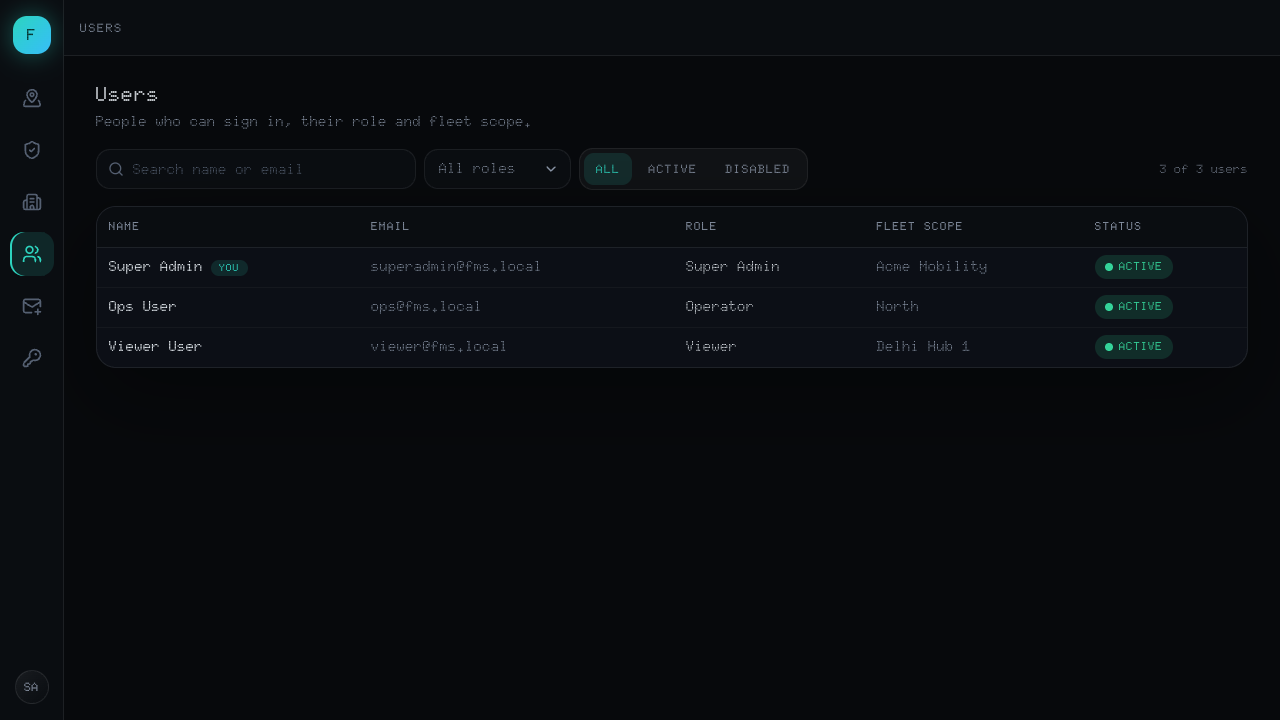
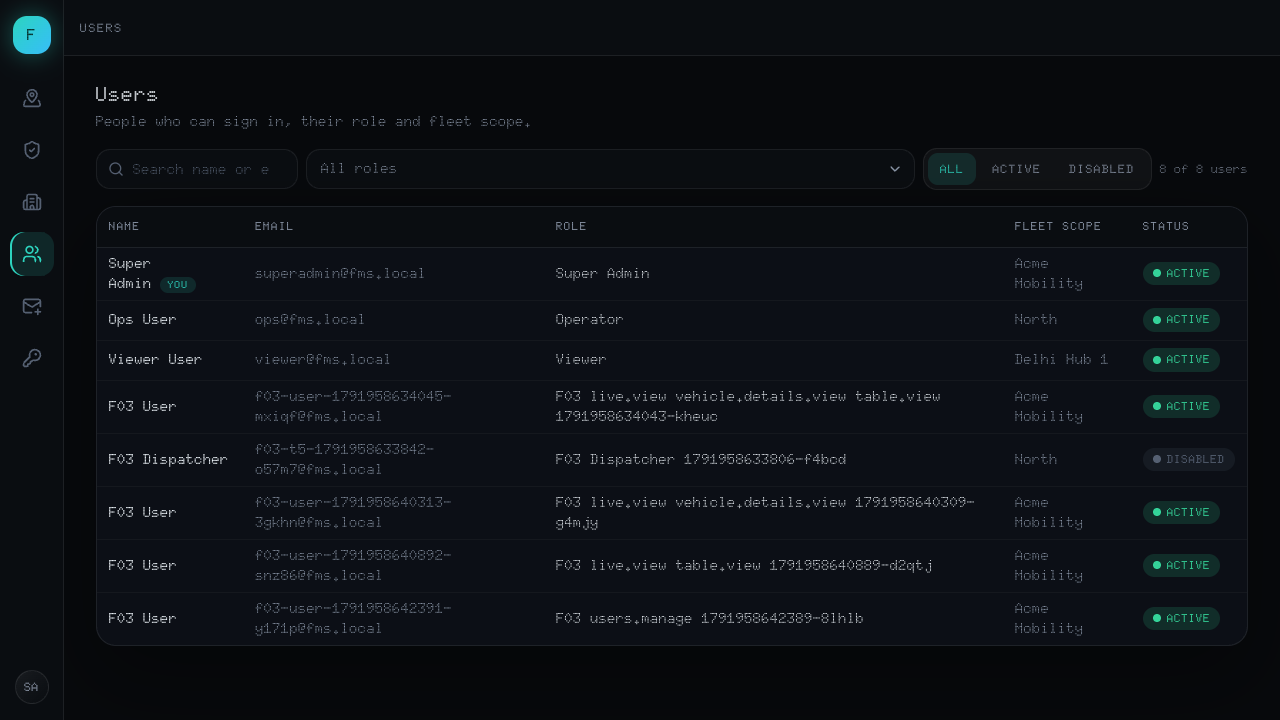
docs(f03): integration test report; F03 ready for UAT

diff --git a/docs/features/f03-access-control/test-report.md b/docs/features/f03-access-control/test-report.md
@@ -1,0 +1,29 @@
+# F03 — Access Control · Test report
+
+F03 was delivered by two agents in parallel from one shared contract commit (spec §5). Per-agent evidence:
+- `test-report-f03a.md`: Fleets (T2, T3, fleets screenshots, fleets budgets).
+- `test-report-f03b.md`: People (T4–T8, people screenshots).
+- Contract (T1): 30 tests in `permissions/can.test.tsx`, `app/nav-items.test.ts` and `app/app.test.tsx`. See `conversation-log.md`.
+
+## Integration (`integration/f03`, 2026-10-14)
+Merged `feature/f03a-fleets`, then `feature/f03b-people`. Only the decision log and the conversation log conflicted (both sides appended).
+
+**One integration fix:** the F03-T4 users-panel scope test clicked Delhi to deselect it. With F03a's real picker, Delhi is implied by the chosen North (F03-R7), so its checkbox is disabled. The test now deselects North and expects `['f3', 'f4']`. The F03b e2e invite steps needed no change, because multi-mode rows keep native checkboxes named by the fleet.
+
+| Command | Result |
+|---|---|
+| `pnpm check` | **619/619**, 52 files, lint clean |
+| `pnpm build` | pass; main chunk 658 kB (admin pages are lazy chunks) |
+| e2e setup + chromium (`--no-deps`) | **48/48** |
+| e2e clock (`--no-deps`) | **3/3** |
+| perf (6 specs, run alone) | See below. Results depended on machine load: load avg 5–15, with the editor using about one core. |
+
+**Perf:**
+| Spec | Result |
+|---|---|
+| F04-T9 / F04-T10 / F06-T9 | Failed on the first run at load 14.6 (F04 first data 3.8 s; F06 a 262 ms task). Passed on the second at load ~9: first data 1135 ms, snapshot 1488 ms; 0 long tasks while streaming; F06 0 long tasks. |
+| F09-T7 | Passed both runs: no scroll long tasks; export 692–705 ms. |
+| F03 fleets budgets | 3 of 4 runs had no long tasks; one run had a single 64 ms task (load ~9). Vehicle pages loaded in 5–19 ms, but the root fleet's empty direct page took 323 ms once (the mock scans all 1 lakh vehicles; budget 300 ms). |
+| F08 budgets | Frames after a filter change: 81–167 ms, with one 203 ms "clear" at load ~9. **Long tasks while typing/filtering: 58–84 ms**, failing. **`main` without F03 fails the same check at the same load (62 ms)**, so this is load sensitivity, not an F03 regression. Same pattern as F09 before D-079. |
+
+UAT screenshots: `screenshots/`. People screens were retaken on `integration/f03`, so the invite dialog and user panel show the real fleet picker. The fleets screens are from F03a's fresh-mock run.

diff --git a/docs/conversation-logs/project-conversation-log.md b/docs/conversation-logs/project-conversation-log.md
@@ -229,3 +229,9 @@ F02 only touched `tableViewStore.reset()`.
 **Assistant:** Accepted D-079 and merged `fix/f09-table-scroll` into `main` (--no-ff). Removed the worktree and branch. Post-merge `pnpm check` 521/521. The F03 contract agent is still running.
 
 **Assistant:** F03 contract finished (`pnpm check` 562/562, e2e 36/36) and merged into `main`. The contract puts guards in `staticData.permission` + AppLayout, and `/` now lands on the first page the user can open. Created worktrees `../fms-ui-f03a` (`feature/f03a-fleets`, ports 5273/4100, D-080…D-082) and `../fms-ui-f03b` (`feature/f03b-people`, ports 5373/4200, D-083…D-085) and spawned both agents in parallel. Left for F03b: gate `table.view`, and don't start the live worker without `live.view`.
+
+## 2026-10-14 — Session 4 (cont.)
+
+**Assistant:** F03a and F03b finished. Merged both on `integration/f03`; only the docs logs conflicted. One integration fix: a T4 test clicked an implied (disabled) child in the real picker. Results: `pnpm check` 619/619, build clean, e2e 48/48, clock 3/3. Perf was load-sensitive (load avg 5–15, editor using about one core). F04, F06 and F09 passed on re-run. The fleets budget had one 64 ms task in 1 of 4 runs, and the root's empty vehicle page took 323 ms once. F08 long tasks while filtering were 58–84 ms, but `main` fails the same check at the same load, so this is not an F03 regression. Could not stop a leftover mock server and Vite server from the removed `../fms-ui-f09h` worktree (ports 4100 and 5174); the auto-mode classifier blocked the kill.
+
+**Status:** F03 awaiting UAT and approval of D-080…D-085.
